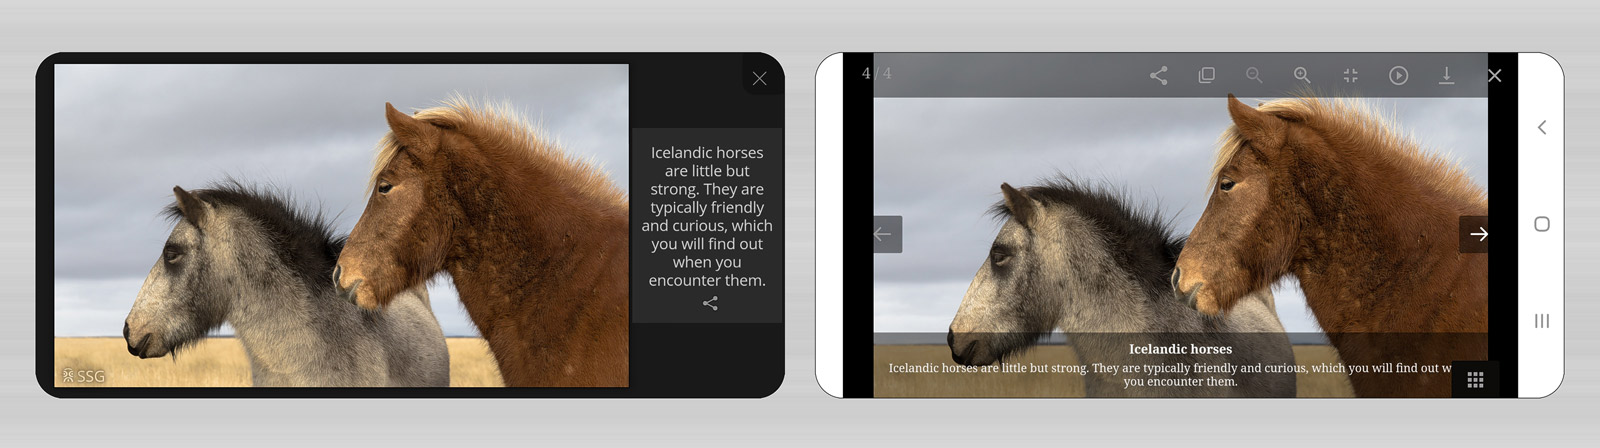
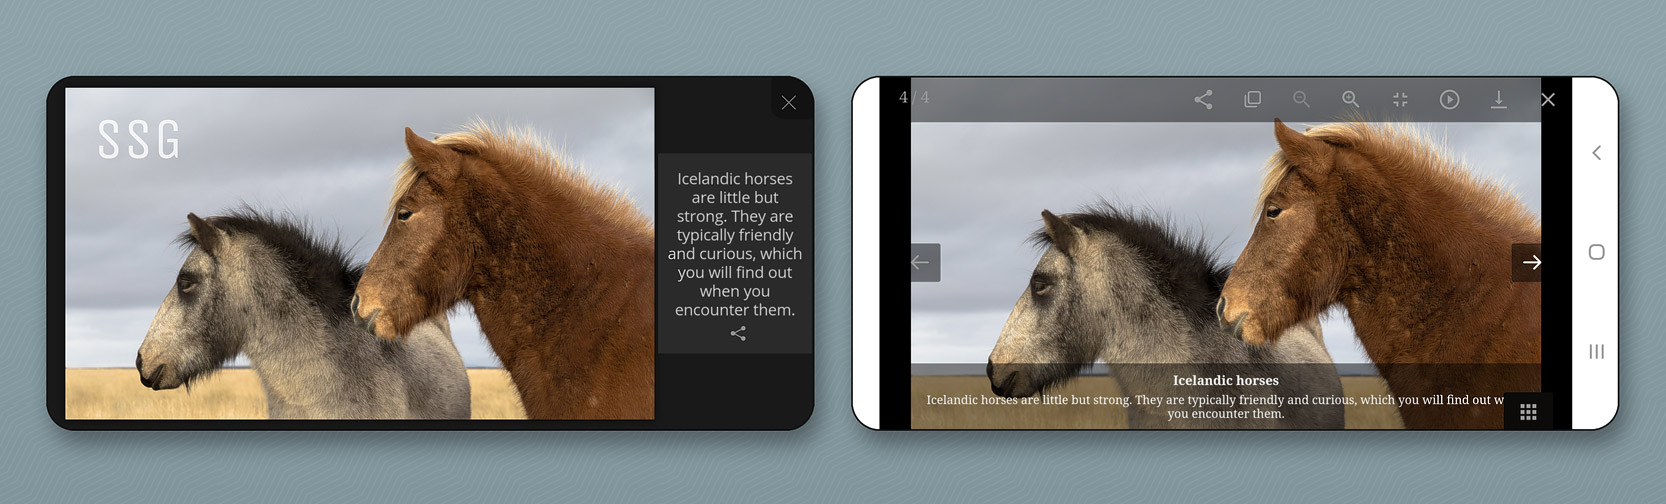
landing gallery and its signpost

diff --git a/ssg-loaded.html b/ssg-loaded.html
@@ -12,6 +12,7 @@
     #SSG_lastone #SSG_loadInto {
         margin-top: 3em;
         text-align: center;
+        margin-bottom: 10vh;
     }
 
     #SSG_lastone .SSG_signpostH1 {
@@ -28,6 +29,7 @@
         margin-bottom: 0 !important;
         padding: 0;
         text-shadow: none;
+        font-size: 20px;
     }
 
     #SSG_lastone #opening {
@@ -87,7 +89,7 @@
 
     #SSG_lastone .SSG_icell img {
         width: 11vw;
-        max-width: 150px !important;
+        max-width: 200px !important;
         border: none;
         opacity: 1;
         margin: 0;
@@ -199,64 +201,36 @@
 </style>
 
 <div id="opening">
-    <span class="SSG_signpostH1">See other galleries</span><br clear='all' />
-    <p class="SSG_signpostText">After the last image, SSG can load this html file. Edit it to your liking.</p>
+
+    <p class="SSG_signpostText">Story Show Gallery is free and you can easily add it on your website:</p>
 </div>
 
 <div class="SSG_icell">
-    <a href="javascript: SSG.restart({ initImgID: 2, fs: true })">
-        <img src="https://roman-flossler.github.io/StoryShowGallery/thumbs/thumb_code.jpg">
-        <span class="SSG_icapt SSG_text gallery-link">Sample HTML code<br /> & SSG features</span>
-    </a>
-</div>
-
-<div class="SSG_icell">
-    <a href="javascript: SSG.restart({ initImgID: 11 })">
-        <img src="https://roman-flossler.github.io/StoryShowGallery/thumbs/thumb_rabbit.jpg">
-        <span class="SSG_icapt SSG_text gallery-link">Sample gallery <br />with an error</span>
-    </a>
-</div>
-
-<div class="SSG_icell">
-    <a href="javascript: SSG.restart({ initImgID: 10, fs: true })">
-        <img src="https://roman-flossler.github.io/StoryShowGallery/thumbs/thumb_fifth-element.jpg">
-        <span class="SSG_icapt SSG_text gallery-link">Models shooting <br />in Michal mine</span>
-    </a>
-</div>
-
-<div class="SSG_icell">
-    <a href="javascript: SSG.restart( { imgs: iceland, initImgID: 1, fs: true });">
-        <img src="https://roman-flossler.github.io/StoryShowGallery/thumbs/thumb_iceland.jpg">
-        <span class="SSG_icapt SSG_text gallery-link">Iceland <br />Aurora</span>
-    </a>
-</div>
-
-<div class="SSG_icell">
-    <a href="#deeplinking">
-        <img src="https://roman-flossler.github.io/StoryShowGallery/thumbs/thumb_deeplinkimage.png">
-        <span class="SSG_icapt SSG_text hash-link">Deep linking in SSG</span>
-    </a>
-</div>
-
-<div class="SSG_icell">
-    <a href="https://roman-flossler.github.io/StoryShowGallery/example/index.html#svetlusky" target="_blank">
-        <img src="https://roman-flossler.github.io/StoryShowGallery/thumbs/thumb_noexit.jpg">
-        <span class="SSG_icapt SSG_text link-outside">No e×it mode</span>
+    <a href="https://roman-flossler.github.io/StoryShowGallery/" target="_blank">
+        <img src="thumbs/thumb_ssg2.jpg">
+        <span class="SSG_icapt SSG_text link-outside">SSG as jQuery library</span>
     </a>
 </div>
 
 <div class="SSG_icell">
     <a href="https://roman-flossler.github.io/StoryShowGallery/wordpress/" target="_blank">
-        <img src="https://roman-flossler.github.io/StoryShowGallery/thumbs/thumb_ssg.jpg">
-        <span class="SSG_icapt SSG_text link-outside">SSG for Wordpress</span>
+        <img src="thumbs/thumb_ssg2.jpg">
+        <span class="SSG_icapt SSG_text link-outside">SSG plugin <br> for Wordpress</span>
     </a>
 </div>
 
 
 <div class="SSG_icell">
-    <a href="https://www.flor.cz/blog/foceni-akt/" target="_blank">
-        <img src="https://roman-flossler.github.io/StoryShowGallery/thumbs/thumb_act.jpg">
-        <span class="SSG_icapt SSG_text link-outside">Shooting<br /> an Act</span>
+    <a href="https://servek.ru/" target="_blank">
+        <img src="https://sun1-30.userapi.com/impg/c856524/v856524860/14b655/c72GPl5rDCQ.jpg?size=200x0&quality=88&crop=66,23,963,963&sign=d58b853470cdf1291ffdcfcb4ee7f059&c_uniq_tag=JP3lzo9aGlbxLw8geNpcsszQOZcO-hANRUt4TQHlcTs&ava=1">
+        <span class="SSG_icapt SSG_text link-outside">Servek.ru<br> is using SSG</span>
+    </a>
+</div>
+
+<div class="SSG_icell">
+    <a href="https://www.faroeislands.io/" target="_blank">
+        <img src="thumbs/thumb_faroeIslands.jpg">
+        <span class="SSG_icapt SSG_text link-outside">FaroeIslands.io<br> is using SSG</span>
     </a>
 </div>
 

diff --git a/ssg.html b/ssg.html
@@ -1,0 +1,46 @@
+<!doctype html>
+<html lang="en">
+
+<head>
+    <!-- Google Analytics -->
+    <script>
+        (function (i, s, o, g, r, a, m) {
+            i['GoogleAnalyticsObject'] = r; i[r] = i[r] || function () {
+                (i[r].q = i[r].q || []).push(arguments)
+            }, i[r].l = 1 * new Date(); a = s.createElement(o),
+                m = s.getElementsByTagName(o)[0]; a.async = 1; a.src = g; m.parentNode.insertBefore(a, m)
+        })(window, document, 'script', 'https://www.google-analytics.com/analytics.js', 'ga');
+        ga('create', 'UA-832000-17', 'auto');
+        ga('send', 'pageview');
+    </script>
+    <!-- End Google Analytics -->
+    
+    <meta charset="utf-8">
+    <meta name="viewport" content="width=device-width, initial-scale=1, viewport-fit=cover">
+    <title>Story Show Gallery - whole photo story - Javascript gallery</title>
+    
+    <!-- ssg.js and jquery have to be in the head --> 
+    <link rel="stylesheet" href="https://cdn.jsdelivr.net/npm/story-show-gallery@2/dist/ssg.min.css">
+    <script src="https://code.jquery.com/jquery-3.5.1.min.js"> </script>
+</head>
+
+<body style="background:#0e0e0e;">
+
+    <a href='photos/on-the-hook.jpg'>With Story Show gallery you can easily present your photo stories in full screen.</a>
+
+    <a href='photos/fifth-element.jpg'>The whole photo story can be seen just by scrolling. SSG can add your logo on every photo.</a>
+       
+    <a href='img/gallery-compare.jpg'>SSG vs. usual web gallery. SSG use even notch area of a phone and doesn't display bars and icons over a photo.</a>
+    
+    <a href='img/story-show-gallery-responsive-modes-fullscreen.jpg'>Captions can be below the image or next to the image according to space on display.</a>
+    
+    <script src="https://cdn.jsdelivr.net/npm/story-show-gallery@2/dist/ssg.min.js"> </script>    
+    <script>        
+        SSG.cfg.fileToLoad = 'ssg-loaded.html';  // html file (signpost) to load behind the gallery
+        SSG.cfg.watermarkText = 'ꐠ Story Show Gallery';
+        SSG.cfg.watermarkFontSize = 18;
+        SSG.run( { noExit:true, fsa:true } );
+     </script>
+
+</body>
+</html>

diff --git a/index.css b/index.css
@@ -83,6 +83,7 @@ p.compare:after {
     color: white;
     left: 18px;
     font-size: 20px;
+    text-shadow: 0 0 13px #173c589e;
 }
 
 p.compare em {
